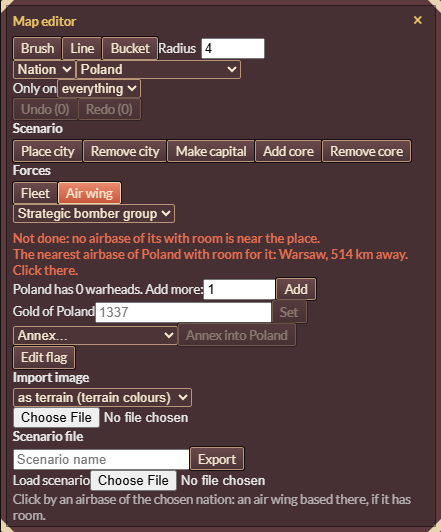
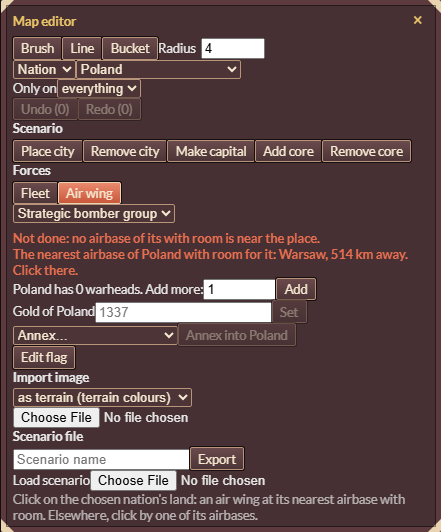
PLAN 7.24b: pictures with the new hint line; a test comment
Claude-Session: https://claude.ai/code/session_01Leh5Qk8kpwAuBPcwKtJNRM

Changed region(s): [[0.0884, 0.9323, 0.9433, 0.9925]]

diff --git a/tests/unit/editorForces1938.test.ts b/tests/unit/editorForces1938.test.ts
@@ -78,7 +78,8 @@ describe('the editor places fleets, wings and warheads (PLAN 7.13a)', () => {
     expect(send(s, { kind: 'spawnFleet', nation: GBR, x: px + 0.5, y: py + 0.5, template: BOMBERS }).refused).toEqual([Refusal.NoSuch]);
     expect(send(s, { kind: 'spawnWing', nation: GBR, x: lx + 0.5, y: ly + 0.5, template: INFANTRY }).refused).toEqual([Refusal.NoSuch]);
 
-    // A full base takes no more: wings until refused, each at a base of Britain's.
+    // Full bases take no more: wings until refused, each at a base of Britain's (a click on its land
+    // fills the nearest with room, then the next: PLAN 7.24b).
     let placed = 0;
     for (let k = 0; k < 200; k++) {
       const r = send(s, { kind: 'spawnWing', nation: GBR, x: lx + 0.5, y: ly + 0.5, template: BOMBERS });

diff --git a/PROGRESS.md b/PROGRESS.md
@@ -18586,3 +18586,8 @@ No rule changed and nothing on screen changed. One task came out of it.
 - **7.24 ticked:** the air's fire (a0), the wings spread (a), patrols drawn over fights at T2 and T3
   in a spec (c), a patrol over its men (d), the editor's group at a capital (b).
 - **Next:** PLAN 7.25 (AI nuclear use believed).
+- **After the commit:** the 7.24b pictures taken again with the new hint line; the i18n tests by
+  hand (11 files, green); the unit test's comment on full bases says the new rule.
+- **Left unstaged, as before:** the evidence pictures the editor spec's other two tests rewrite
+  (7.13, 7.18b, 7.22c) and the four of 7.4: eight now. Their specs to write them only with
+  `EVIDENCE` set, or the lot committed, at the next phase review.
